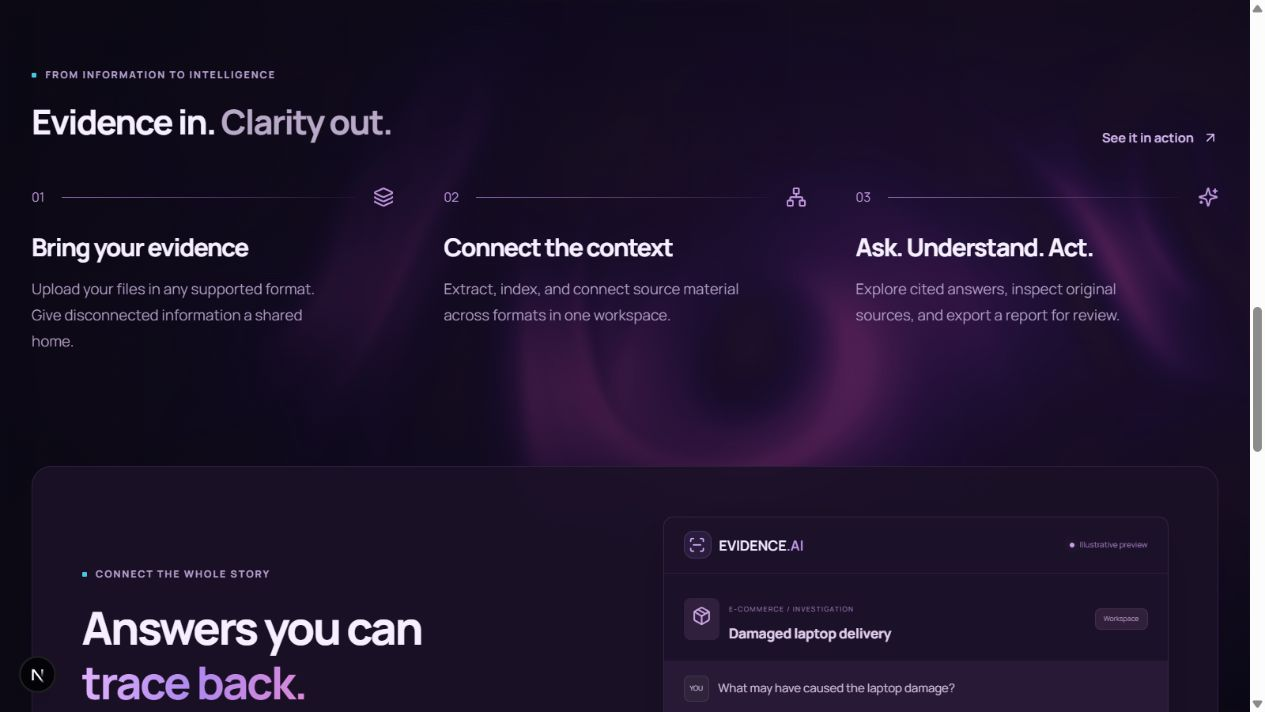
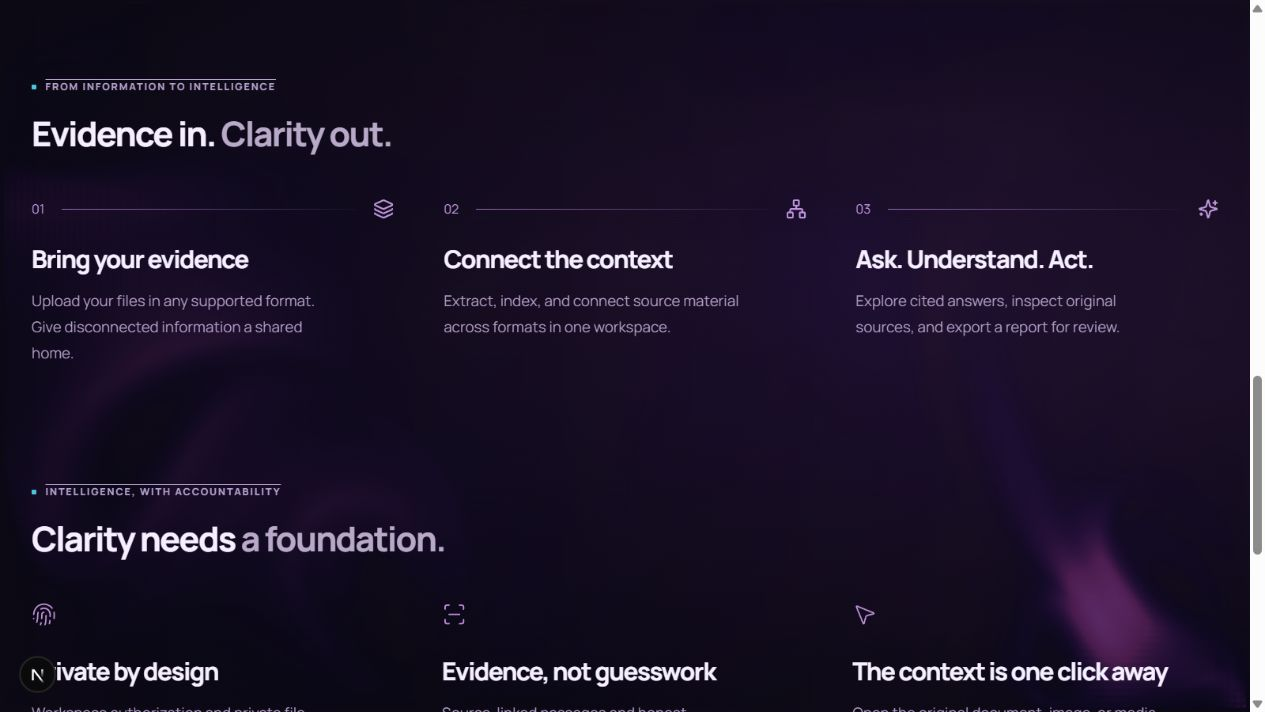
Polish dashboard controls and simplify landing navigation

diff --git a/apps/web/app/page.tsx b/apps/web/app/page.tsx
@@ -4,7 +4,7 @@ import SignInModal from '@/components/sign-in-modal';
 import SpecularButton from '@/components/SpecularButton/SpecularButton';
 import dynamic from 'next/dynamic';
 import { useState } from 'react';
-import { ArrowRight, ArrowUpRight, Play, FileText, Image, AudioLines, Video, Database, ShieldCheck, Network, ScanLine, Check, Factory, GraduationCap, Package, Shield, ChevronDown, Menu, X, Sparkles, Layers, Fingerprint, MousePointer2 } from 'lucide-react';
+import { ArrowRight, ArrowUpRight, FileText, Image, AudioLines, Video, Database, ShieldCheck, Network, ScanLine, Check, Factory, GraduationCap, Package, Shield, ChevronDown, Menu, X, Sparkles, Layers, Fingerprint, MousePointer2 } from 'lucide-react';
 import { Brand } from '@/components/brand';
 import { industries } from '@/lib/api';
 import LiquidLandingBackground from '@/components/liquid-landing-background';
@@ -16,10 +16,11 @@ export default function Home(){
   const [menu,setMenu]=useState(false),[signIn,setSignIn]=useState(false);
   return <main className="landing"><LiquidLandingBackground/>{signIn&&<SignInModal onClose={()=>setSignIn(false)}/>}
     <header className="site-header"><div className="container nav"><Brand/><NavHeader open={menu} onNavigate={()=>setMenu(false)}/><div className="nav-actions"><SpecularButton size="sm" className="mobile-menu icon-button" aria-label="Toggle navigation" aria-expanded={menu} onClick={()=>setMenu(!menu)}>{menu?<X/>:<Menu/>}</SpecularButton></div></div></header>
-    <section className="hero container"><div className="hero-copy"><div className="eyebrow-pill"><span className="live-dot"/> THE NEXT GENERATION OF MULTIMODAL AI <ArrowUpRight size={12}/></div><h1>Every format.<br/>One <span className="gradient-text">intelligence.</span></h1><p className="hero-description">Your evidence is everywhere.<br/>Your answers should be in one place.</p><p className="hero-subcopy">Transform disconnected videos, audio, documents, images, and structured data into connected, explainable intelligence.</p><div className="hero-actions"><SpecularButton className="landing-launch" tint="#9160c7" tintOpacity={0.65} lineColor="#ffffff" baseColor="#b497cf" onClick={()=>setSignIn(true)}>Launch Intelligence Workspace <ArrowRight size={17}/></SpecularButton><SpecularButton className="landing-explore" size="md" onClick={()=>{location.hash="how-it-works";}}><span className="play-circle"><Play size={11} fill="currentColor"/></span> Explore how it works</SpecularButton></div><div className="hero-assurance"><span><Check size={13}/> Every answer, source-backed</span><span><ShieldCheck size={13}/> Your evidence stays yours</span></div></div>
+    <section className="hero container"><div className="hero-copy"><div className="eyebrow-pill"><span className="live-dot"/> THE NEXT GENERATION OF MULTIMODAL AI <ArrowUpRight size={12}/></div><h1>Every format.<br/>One <span className="gradient-text">intelligence.</span></h1><p className="hero-description">Your evidence is everywhere.<br/>Your answers should be in one place.</p><p className="hero-subcopy">Transform disconnected videos, audio, documents, images, and structured data into connected, explainable intelligence.</p><div className="hero-actions"><SpecularButton className="landing-launch" tint="#9160c7" tintOpacity={0.65} lineColor="#ffffff" baseColor="#b497cf" onClick={()=>setSignIn(true)}>Launch Intelligence Workspace <ArrowRight size={17}/></SpecularButton></div><div className="hero-assurance"><span><Check size={13}/> Every answer, source-backed</span><span><ShieldCheck size={13}/> Your evidence stays yours</span></div></div>
     <div className="hero-visual"><div className="orb-glow"/><NeuralCore/><div className="core-label"><span className="live-dot"/><span>INTELLIGENCE CORE</span></div><div className="floating-node node-doc"><FileText/><span>Documents<small>Context, extracted.</small></span></div><div className="floating-node node-video"><Video/><span>Video<small>Every moment matters.</small></span></div><div className="floating-node node-image"><Image/><span>Images<small>Beyond what you see.</small></span></div><div className="floating-node node-audio"><AudioLines/><span>Audio<small>Turn voices into insights.</small></span></div><div className="floating-node node-data"><Database/><span>Structured data<small>Find the signals.</small></span></div><div className="visual-caption"><span className="tiny-cross">+</span> CONNECTING THE DOTS. REVEALING THE STORY. <span className="tiny-cross">+</span></div></div></section>
-    <section className="modality-strip container" id="platform"><span className="strip-label">MANY INPUTS.<br/><strong>ONE CONNECTED PICTURE.</strong></span><div>{modalityNames.map((name,i)=>{const Icon=icons[i];return <span key={name}><Icon size={19}/>{name}</span>;})}</div><span className="format-caption">Any evidence.<br/>Real understanding.</span></section>
-    <section className="section container" id="industries"><div className="section-heading"><div><span className="overline"><span/> BUILT FOR YOUR WORLD</span><h2>One engine. <span className="muted">Every industry.</span></h2></div><p>Different challenges. The same power to connect<br className="desktop-break"/> evidence and uncover what matters.</p></div><div className="industry-grid">{industries.map((industry,i)=>{const Icon=industryIcons[i];return <div className="industry-card" key={industry.name} style={{'--industry-color':industry.color} as React.CSSProperties}><div className="industry-top"><span className="industry-icon"><Icon size={23}/></span><ArrowUpRight size={17}/></div><span className="card-eyebrow">{industry.eyebrow}</span><h3>{industry.name}</h3><p>{industry.description}</p><span className="card-link">Connected evidence <Check size={14}/></span></div>;})}</div></section>
+    <section className="modality-strip container"><span className="strip-label">MANY INPUTS.<br/><strong>ONE CONNECTED PICTURE.</strong></span><div>{modalityNames.map((name,i)=>{const Icon=icons[i];return <span key={name}><Icon size={19}/>{name}</span>;})}</div><span className="format-caption">Any evidence.<br/>Real understanding.</span></section>
+    <section className="section container platform-section"><div className="section-heading"><div><span className="overline"><span/> INSIDE THE PLATFORM</span><h2 id="platform">Your evidence. <span className="gradient-text">Connected.</span></h2></div><p>One workspace for your sources,<br className="desktop-break"/> questions, and supporting evidence.</p></div><div className="platform-capabilities">{[{Icon:Layers,title:'Bring every source together',text:'Upload documents, images, audio, short videos, and CSV data. Keep extracted passages and original files together in your workspace.'},{Icon:ScanLine,title:'Ask questions. Check the sources.',text:'Get answers based on your uploaded evidence, with citations you can open and verify. See where information is missing or uncertain.'},{Icon:Network,title:'Explore the connections',text:'Inspect source relationships, recorded events, and CSV statistics. Compare what different files contribute to the same investigation.'},{Icon:FileText,title:'Take the next step',text:'Generate a PDF report of your evidence and findings. In Education workspaces, turn indexed sources into study material and quizzes.'}].map(({Icon,title,text})=><article className="platform-capability" key={title}><Icon size={28}/><h3>{title}</h3><p>{text}</p></article>)}</div></section>
+    <section className="section container"><div className="section-heading"><div><span className="overline"><span/> BUILT FOR YOUR WORLD</span><h2 id="industries">One engine. <span className="muted">Every industry.</span></h2></div><p>Different challenges. The same power to connect<br className="desktop-break"/> evidence and uncover what matters.</p></div><div className="industry-grid">{industries.map((industry,i)=>{const Icon=industryIcons[i];return <div className="industry-card" key={industry.name} style={{'--industry-color':industry.color} as React.CSSProperties}><div className="industry-top"><span className="industry-icon"><Icon size={23}/></span><ArrowUpRight size={17}/></div><span className="card-eyebrow">{industry.eyebrow}</span><h3>{industry.name}</h3><p>{industry.description}</p><span className="card-link">Connected evidence <Check size={14}/></span></div>;})}</div></section>
     <section className="section how-section container" id="how-it-works"><div className="section-heading"><div><span className="overline"><span/> FROM INFORMATION TO INTELLIGENCE</span><h2>Evidence in. <span className="muted">Clarity out.</span></h2></div></div><div className="steps-grid">{[{title:'Bring your evidence',text:'Upload your files in any supported format. Give disconnected information a shared home.',Icon:Layers},{title:'Connect the context',text:'Extract, index, and connect source material across formats in one workspace.',Icon:Network},{title:'Ask. Understand. Act.',text:'Explore cited answers, inspect original sources, and export a report for review.',Icon:Sparkles}].map((step,i)=><div className="step" key={step.title}><div className="step-line"><span>0{i+1}</span><div/><step.Icon size={21}/></div><h3>{step.title}</h3><p>{step.text}</p></div>)}</div></section>
     <section className="section container" id="trust"><div className="section-heading"><div><span className="overline"><span/> INTELLIGENCE, WITH ACCOUNTABILITY</span><h2>Clarity needs <span className="muted">a foundation.</span></h2></div></div><div className="trust-grid">{[{Icon:Fingerprint,title:'Private by design',text:'Workspace authorization and private file storage keep your investigations contained.'},{Icon:ScanLine,title:'Evidence, not guesswork',text:'Source-linked passages and honest uncertainty help you verify every interpretation.'},{Icon:MousePointer2,title:'The context is one click away',text:'Open the original document, image, or media segment directly from a citation.'}].map(f=><div className="trust-card" key={f.title}><f.Icon size={25}/><h3>{f.title}</h3><p>{f.text}</p></div>)}</div></section>
     <section className="container final-cta"><div className="cta-grid-glow"/><span className="overline">YOUR NEXT ANSWER IS ALREADY IN YOUR EVIDENCE</span><h2>Bring it all together.</h2><p>One Intelligence. Every Format. Infinite Possibilities.</p></section>

diff --git a/apps/web/components/app-shell.tsx b/apps/web/components/app-shell.tsx
@@ -2,12 +2,12 @@
 import Link from 'next/link';
 import { useState } from 'react';
 import { useRouter } from 'next/navigation';
-import { LayoutDashboard, FolderOpen, MessageSquare, Network, Clock3, Lightbulb, FileBarChart, Settings, ChevronRight, Plus, Menu, X, LogOut, HelpCircle, Sparkles, ArrowUpRight } from 'lucide-react';
+import { LayoutDashboard, FolderOpen, MessageSquare, Network, Clock3, Lightbulb, FileBarChart, Settings, ChevronRight, Plus, Menu, X, LogOut, Sparkles } from 'lucide-react';
 import { Brand } from './brand';
 import { supabase } from '@/lib/api';
 export const tabs=[{id:'overview',label:'Overview',Icon:LayoutDashboard},{id:'evidence',label:'Evidence Library',Icon:FolderOpen},{id:'assistant',label:'AI Assistant',Icon:MessageSquare},{id:'graph',label:'Knowledge Graph',Icon:Network},{id:'timeline',label:'Timeline',Icon:Clock3},{id:'insights',label:'Insights',Icon:Lightbulb},{id:'reports',label:'Reports',Icon:FileBarChart},{id:'settings',label:'Settings',Icon:Settings}];
 export function AppShell({children,workspace,tab,onTab,onCreate}:{children:React.ReactNode;workspace?:string;tab?:string;onTab?:(t:string)=>void;onCreate?:()=>void}){
  const [open,setOpen]=useState(false);const router=useRouter();
  return <div className="app-shell"><div className="mobile-appbar"><Brand small/><button className="icon-button" aria-label="Open menu" onClick={()=>setOpen(!open)}>{open?<X/>:<Menu/>}</button></div>{open&&<button aria-label="Close navigation" className="sidebar-overlay" onClick={()=>setOpen(false)}/>}
- <aside className={`sidebar ${open?'visible':''}`}><Brand/><div className="workspace-picker"><span className="workspace-avatar">E</span><div><strong>{workspace||'Your workspace'}</strong><small>Intelligence platform</small></div><ChevronRight size={14}/></div><span className="sidebar-label">WORKSPACE</span><nav className="sidebar-nav">{workspace?tabs.map(item=><button key={item.id} className={tab===item.id?'active':''} onClick={()=>{onTab?.(item.id);setOpen(false);}}><item.Icon size={17}/>{item.label}{item.id==='assistant'&&<span className="nav-new">AI</span>}</button>):<><Link className="active" href="/dashboard"><LayoutDashboard size={17}/>Dashboard</Link><button onClick={onCreate}><Plus size={17}/>Create workspace</button><Link href="/"><ArrowUpRight size={17}/>Explore platform</Link></>}</nav>{workspace&&<Link className="back-dashboard" href="/dashboard"><LayoutDashboard size={15}/>All workspaces</Link>}<div className="sidebar-bottom"><div className="sidebar-tip"><Sparkles size={20}/><strong>A bigger picture starts here.</strong><p>Bring every source into one connected workspace.</p>{workspace?<button onClick={()=>onTab?.('evidence')}>Add evidence <Plus size={13}/></button>:<button onClick={onCreate}>Create workspace <Plus size={13}/></button>}</div><Link className="sidebar-help" href="/#how-it-works"><HelpCircle size={16}/>How Evidence.ai works</Link><div className="profile"><span className="user-avatar">EA</span><div><Link href="/account"><strong>Profile &amp; account</strong></Link><small>{'Your account'}</small></div><button className="icon-button" aria-label="Sign out" onClick={async()=>{await supabase?.auth.signOut();router.push('/login');}}><LogOut size={16}/></button></div></div></aside><div className="app-main">{children}</div></div>;
+ <aside className={`sidebar ${open?'visible':''}`}><Brand/><div className="workspace-picker"><span className="workspace-avatar">E</span><div><strong>{workspace||'Your workspace'}</strong><small>Intelligence platform</small></div><ChevronRight size={14}/></div><span className="sidebar-label">WORKSPACE</span><nav className="sidebar-nav">{workspace?tabs.map(item=><button key={item.id} className={tab===item.id?'active':''} onClick={()=>{onTab?.(item.id);setOpen(false);}}><item.Icon size={17}/>{item.label}{item.id==='assistant'&&<span className="nav-new">AI</span>}</button>):<><Link className="active" href="/dashboard"><LayoutDashboard size={17}/>Dashboard</Link><button onClick={onCreate}><Plus size={17}/>Create workspace</button></>}</nav>{workspace&&<Link className="back-dashboard" href="/dashboard"><LayoutDashboard size={15}/>All workspaces</Link>}<div className="sidebar-bottom"><div className="sidebar-tip"><Sparkles size={20}/><strong>A bigger picture starts here.</strong><p>Bring every source into one connected workspace.</p>{workspace?<button onClick={()=>onTab?.('evidence')}>Add evidence <Plus size={13}/></button>:<button onClick={onCreate}>Create workspace <Plus size={13}/></button>}</div><div className="profile"><span className="user-avatar">EA</span><div><Link href="/account"><strong>Profile &amp; account</strong></Link><small>{'Your account'}</small></div><button className="icon-button" aria-label="Sign out" onClick={async()=>{await supabase?.auth.signOut();router.push('/login');}}><LogOut size={16}/></button></div></div></aside><div className="app-main">{children}</div></div>;
 }

diff --git a/apps/web/app/workspace-polish.css b/apps/web/app/workspace-polish.css
@@ -1,0 +1,70 @@
+/* Shared specular-style feedback without one WebGL context per control. */
+.app-shell :is(button:not(.sidebar-overlay), a:not(.brand)) {
+  position: relative;
+  isolation: isolate;
+  overflow: hidden;
+  transition: border-color .2s ease, box-shadow .2s ease, background-color .2s ease, transform .2s ease;
+}
+.app-shell .send-button { position: absolute; }
+.app-shell :is(button:not(.sidebar-overlay), a:not(.brand))::before {
+  content: '';
+  position: absolute;
+  inset: 0;
+  border-radius: inherit;
+  background: linear-gradient(110deg, transparent 15%, #b4e5db22 35%, #ffffff70 48%, #b4e5db22 60%, transparent 80%);
+  transform: translateX(-130%);
+  opacity: 0;
+  pointer-events: none;
+  z-index: -1;
+}
+.app-shell :is(button:not(:disabled):not(.sidebar-overlay), a:not(.brand)):is(:hover, :focus-visible)::before {
+  animation: workspace-shine .85s ease-out;
+}
+.app-shell :is(button:not(:disabled):not(.sidebar-overlay), a:not(.brand)):is(:hover, :focus-visible) {
+  box-shadow: inset 0 0 0 1px #71bbae60, 0 4px 16px #174b3c0c;
+}
+@keyframes workspace-shine {
+  0% { transform: translateX(-130%); opacity: 0; }
+  20% { opacity: 1; }
+  100% { transform: translateX(130%); opacity: 0; }
+}
+.app-shell .app-main { background: radial-gradient(ellipse at 90% 0, #e6f3ee88, transparent 55%), #f7faf9; }
+.dashboard-content { max-width: 1740px; padding: clamp(24px, 3vw, 56px); }
+.dashboard-content .page-heading { gap: 24px; margin-bottom: 38px; }
+.dashboard-content .page-heading h1 { font-size: clamp(32px, 3.2vw, 52px); line-height: 1.15; margin: 16px 0; }
+.dashboard-content .page-heading p { font-size: 15px; max-width: 620px; }
+.dashboard-content .stat-card { border-radius: 18px; box-shadow: 0 5px 22px #214f3f05; border-color: #dce8e2; padding: 26px; }
+.dashboard-content .stat-card strong { font-size: 38px; }
+.dashboard-content .stat-card > div svg { color: #208877; }
+.dashboard-content .dashboard-section { margin-top: 40px; }
+.dashboard-content .workspace-card { border-radius: 18px; border-color: #dce8e2; padding: 28px; background: linear-gradient(145deg, #fff, #f8fcfa); }
+.dashboard-content .workspace-card h3 { font-size: 25px; }
+.dashboard-content .workspace-card p { font-size: 13px; line-height: 1.8; }
+.dashboard-content .workspace-card-footer { margin-top: 24px; font-size: 11px; }
+.dashboard-content .industry-card { border-radius: 18px; }
+.dashboard-content .search-box { border-radius: 12px; }
+.app-shell .search-box { transition: border-color .2s ease, box-shadow .2s ease; }
+.app-shell .search-box:focus-within { border-color: #168b81; box-shadow: 0 0 0 3px #168b8112; }
+.app-shell .search-box input,
+.app-shell .search-box input:focus {
+  border: 0;
+  border-radius: 0;
+  box-shadow: none;
+  outline: none;
+  background: transparent;
+  min-width: 0;
+}
+.app-shell .sidebar { border-right-color: #dce8e2; }
+.app-shell .sidebar-nav :is(a, button) { border-radius: 12px; }
+.app-shell .sidebar-nav .active { background: #e3f2ec; color: #076c60; border-color: #cce6da; }
+@media (max-width: 600px) {
+  .dashboard-content { padding: 26px 18px; }
+  .dashboard-content .page-heading { margin-bottom: 24px; }
+  .dashboard-content .page-heading p { font-size: 13px; }
+  .dashboard-content .stat-card { padding: 20px 16px; }
+  .dashboard-content .stat-card strong { font-size: 30px; }
+  .dashboard-content .workspace-card { padding: 24px; }
+}
+@media (prefers-reduced-motion: reduce) {
+  .app-shell :is(button, a)::before { animation: none !important; }
+}

diff --git a/apps/web/components/LiquidEther/LiquidEther.jsx b/apps/web/components/LiquidEther/LiquidEther.jsx
@@ -38,9 +38,6 @@ export default function LiquidEther({
   useEffect(() => {
     if (!mountRef.current) return;
 
-    let scrollUntil = 0;
-    const onScroll = () => { scrollUntil = performance.now() + 140; };
-    window.addEventListener("scroll", onScroll, { passive: true });
     function makePaletteTexture(stops) {
       let arr;
       if (Array.isArray(stops) && stops.length > 0) {
@@ -93,9 +90,9 @@ export default function LiquidEther({
       }
       init(container) {
         this.container = container;
-        this.pixelRatio = Math.min(window.devicePixelRatio || 1, 2);
+        this.pixelRatio = 1;
         this.resize();
-        this.renderer = new THREE.WebGLRenderer({ antialias: true, alpha: true });
+        this.renderer = new THREE.WebGLRenderer({ antialias: false, alpha: true, powerPreference: "high-performance" });
         this.renderer.autoClear = false;
         this.renderer.setClearColor(new THREE.Color(0x000000), 0);
         this.renderer.setPixelRatio(this.pixelRatio);
@@ -298,12 +295,9 @@ export default function LiquidEther({
           if (this.active) this.forceStop();
           return;
         }
-        if (this.mouse.isHoverInside) {
-          if (this.active) this.forceStop();
-          return;
-        }
         if (!this.active) {
           this.active = true;
+          this.mouse.hasUserControl = false;
           this.current.copy(this.mouse.coords);
           this.lastTime = now;
           this.activationTime = now;
@@ -986,11 +980,7 @@ export default function LiquidEther({
       }
       loop() {
         if (!this.running) return; // safety
-        const now = performance.now();
-        if (now >= scrollUntil && (!this.lastFrame || now - this.lastFrame >= 1000 / 30)) {
-          this.render();
-          this.lastFrame = now;
-        }
+        this.render();
         rafRef.current = requestAnimationFrame(this._loop);
       }
       start() {
@@ -1110,7 +1100,6 @@ export default function LiquidEther({
       if (webglRef.current) {
         webglRef.current.dispose();
       }
-      window.removeEventListener("scroll", onScroll);
       webglRef.current = null;
     };
   }, [
@@ -1187,5 +1176,3 @@ export default function LiquidEther({
 
   return <div ref={mountRef} className={`liquid-ether-container ${className || ''}`} style={style} />;
 }
-
-

diff --git a/apps/web/components/liquid-landing-background.tsx b/apps/web/components/liquid-landing-background.tsx
@@ -5,7 +5,7 @@ const LiquidEther=dynamic(()=>import('./LiquidEther/LiquidEther'),{ssr:false});
 const colors=['#5227FF','#FF9FFC','#B497CF'];
 class WebGLFallback extends Component<{children:React.ReactNode},{failed:boolean}>{state={failed:false};static getDerivedStateFromError(){return {failed:true};}render(){return this.state.failed?null:this.props.children;}}
 export default function LiquidLandingBackground(){
- const [animate,setAnimate]=useState(false);
- useEffect(()=>{const motion=matchMedia('(prefers-reduced-motion: reduce)');const update=()=>setAnimate(!motion.matches);update();motion.addEventListener('change',update);return()=>motion.removeEventListener('change',update);},[]);
- return <div className="landing-liquid-background" aria-hidden="true">{animate&&<WebGLFallback><LiquidEther colors={colors} mouseForce={20} cursorSize={100} isViscous={false} viscous={30} iterationsViscous={32} iterationsPoisson={32} resolution={0.5} isBounce={false} autoDemo={true} autoSpeed={0.5} autoIntensity={2.2} takeoverDuration={0.25} autoResumeDelay={3000} autoRampDuration={0.6}/></WebGLFallback>}</div>;
+ const [animate,setAnimate]=useState(false),[resolution,setResolution]=useState(0.3);
+ useEffect(()=>{setResolution(matchMedia('(max-width: 768px)').matches?0.22:0.3);const motion=matchMedia('(prefers-reduced-motion: reduce)');const update=()=>setAnimate(!motion.matches);update();motion.addEventListener('change',update);return()=>motion.removeEventListener('change',update);},[]);
+ return <div className="landing-liquid-background" aria-hidden="true">{animate&&<WebGLFallback><LiquidEther colors={colors} mouseForce={20} cursorSize={100} isViscous={false} viscous={30} iterationsViscous={32} iterationsPoisson={16} resolution={resolution} isBounce={false} autoDemo={true} autoSpeed={0.5} autoIntensity={2.2} takeoverDuration={0.25} autoResumeDelay={800} autoRampDuration={1.2}/></WebGLFallback>}</div>;
 }

diff --git a/apps/web/app/landing-fluid.css b/apps/web/app/landing-fluid.css
@@ -66,3 +66,13 @@
 .landing .nav{min-height:108px}
 @media(min-width:901px) and (max-width:1100px){.landing .nav-pill a{padding:16px 18px;font-size:14px}}
 
+/* The header shares the same fluid background as the rest of the landing page. */
+.landing .site-header{background:transparent;border-bottom-color:transparent}
+.landing .site-header .brand-mark{background:transparent;box-shadow:none;border-color:transparent}
+@media(min-width:901px){.landing .nav{gap:clamp(36px,5vw,96px)}.landing .nav-links{flex:1;min-width:0}.landing .nav-pill{width:100%;background:transparent;border-color:transparent}.landing .nav-pill>li:not(.nav-pill-cursor){flex:1;text-align:center}.landing .nav-pill a{padding-top:22px;padding-bottom:22px}.landing .nav-actions{display:none}}
+.landing .platform-capabilities{display:grid;grid-template-columns:repeat(2,minmax(0,1fr));gap:24px}
+.landing .platform-capability{padding:32px;border:1px solid #936bb630;border-radius:16px;background:#1b1328c9;min-height:230px}
+.landing .platform-capability>svg{color:#c29bea;margin-bottom:22px}
+.landing .platform-capability h3{font-size:25px;margin-bottom:14px}
+.landing .platform-capability p{font-size:15px;max-width:540px;margin:0}
+@media(max-width:600px){.landing .platform-capabilities{grid-template-columns:1fr;gap:16px}.landing .platform-capability{padding:24px;min-height:0}.landing .platform-capability h3{font-size:21px}.landing .platform-capability p{font-size:13px}}

diff --git a/apps/web/app/layout.tsx b/apps/web/app/layout.tsx
@@ -3,5 +3,6 @@ import './tailwind.css';
 import './globals.css';
 import './light-theme.css';
 import './landing-fluid.css';
+import './workspace-polish.css';
 export const metadata: Metadata = { title: 'EVIDENCE.AI — Every Format. One Intelligence.', description: 'Connect documents, images, audio, video, and data into traceable intelligence.' };
 export default function RootLayout({ children }: { children: React.ReactNode }) { return <html lang="en"><body>{children}</body></html>; }

diff --git a/docs/LIQUID_ETHER.md b/docs/LIQUID_ETHER.md
@@ -7,11 +7,13 @@ https://reactbits.dev/r/LiquidEther-JS-CSS.json
 - Registry copy for provenance: `data/reactbits/LiquidEther-JS-CSS.json`.
 - Listed dependency: `three@^0.180.0`, already installed and verified.
 - Integration: `apps/web/components/liquid-landing-background.tsx`, imported only by the landing page.
-- All user-provided configuration values are retained, including colors, resolution 0.5, 32 pressure iterations, cursor size 100, mouse force 20 and idle demo/resume settings.
+- Colors, cursor size 100 and mouse force 20 are retained. Performance tuning uses resolution 0.3 on desktop and 0.22 on mobile, with 16 pressure iterations.
 
 The integration uses a client-only dynamic import for Next.js. The fixed full-viewport background fills the landing page behind the existing content instead of adding a separate 600-pixel demo block. Pointer events continue to reach links; LiquidEther listens for mouse/touch movements on the window. The canvas does not capture mobile scrolling. Reduced-motion preference uses the static dark background, and a WebGL error boundary keeps the page usable on unsupported devices. No effect is mounted on login, dashboard or workspace routes.
 
-Registry installation was done directly using plain CSS. Local performance adjustments cap the fluid simulation at 30 frames per second and hold its last frame during scrolling, resuming 140 ms after the last scroll event. The globe renders at device pixel ratio 1 and pauses offscreen. The header avoids a live backdrop blur. User-provided fluid configuration values remain unchanged.
+Registry installation was done directly using plain CSS. The fluid simulation runs continuously on requestAnimationFrame, including during scrolling. The fullscreen output uses pixel ratio 1 without multisample antialiasing; the reduced simulation resolution and pressure iterations lower GPU work rather than freezing the animation. The globe renders at device pixel ratio 1 and pauses offscreen. The header avoids a live backdrop blur.
 
 Documentation: https://reactbits.dev/backgrounds/liquid-ether
 
+
+Idle motion resumes after 800 ms without pointer movement, even if the pointer stays inside the page, with a 1.2-second ramp. Scrolling does not stop the render loop.

diff --git a/docs/UI_COMPONENTS.md b/docs/UI_COMPONENTS.md
@@ -17,3 +17,5 @@ For a new project without this setup, initialize with `npx shadcn@latest init`. 
 Setup references: [Tailwind Next.js installation](https://tailwindcss.com/docs/installation/framework-guides/nextjs), [shadcn manual installation](https://ui.shadcn.com/docs/installation/manual).
 
 React Bits SpecularButton uses the supplied JS-CSS source plus `ogl`. Landing actions and the mobile menu use it. It caps device pixel ratio and rendering frequency, pauses offscreen, and keeps usable plain buttons for reduced-motion or unavailable WebGL.
+
+Dashboard and workspace controls use a lightweight specular-style sweep in apps/web/app/workspace-polish.css. It covers enabled buttons and actionable links/cards, responds to hover and keyboard focus, and respects reduced-motion preferences. This avoids one WebGL renderer per dashboard control. Search fields use a single focus-within outline on their container.
